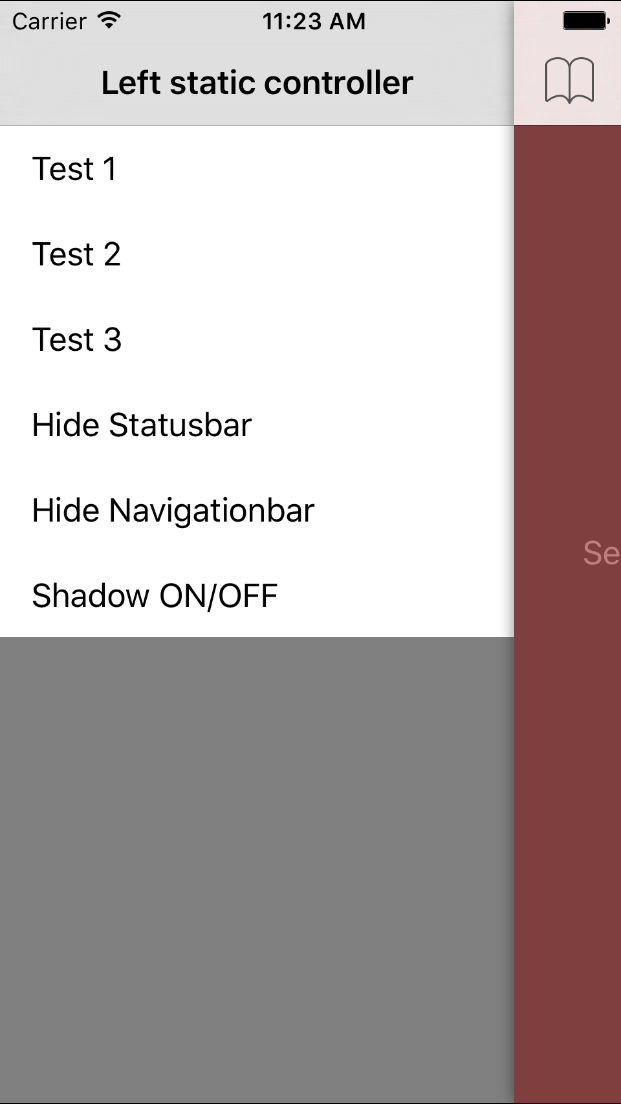
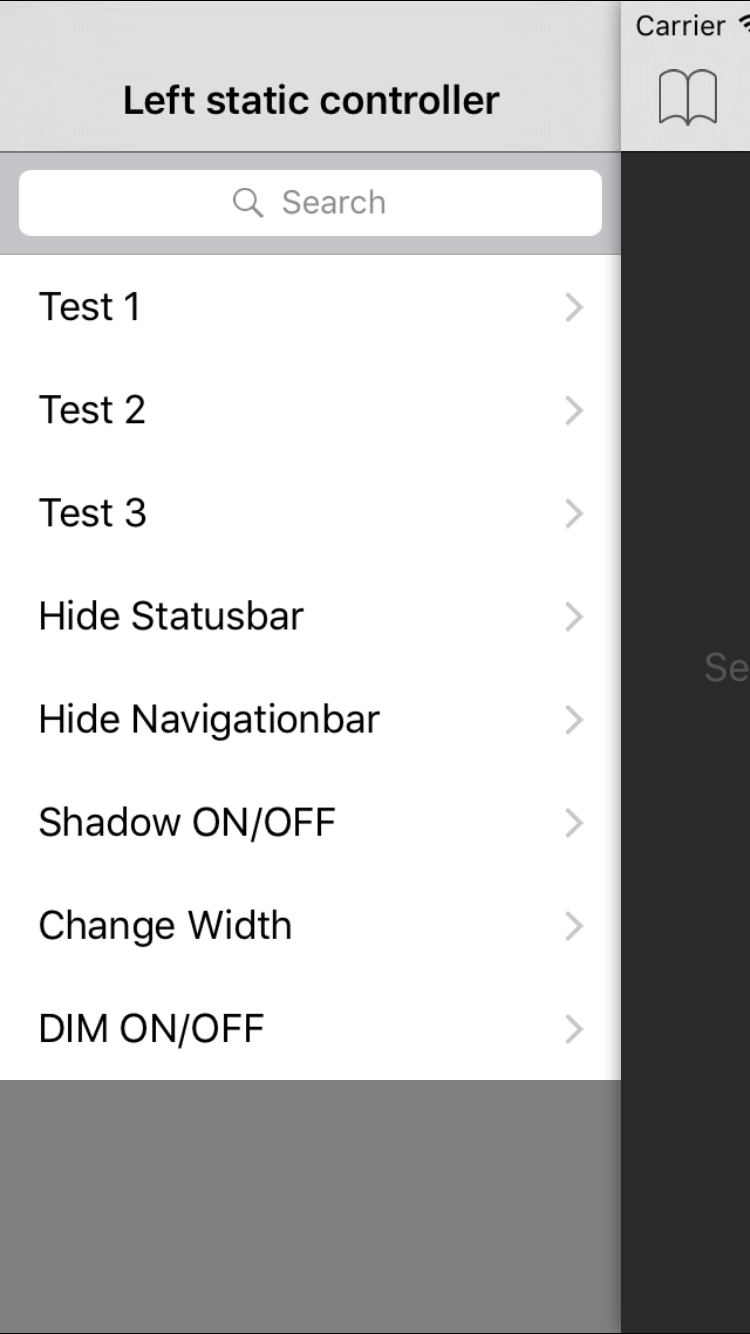
statusbar optionally sticks to sliding view now

diff --git a/CHSlideController/CHSlideController/CHSlideController.m b/CHSlideController/CHSlideController/CHSlideController.m
@@ -46,6 +46,9 @@ typedef NS_ENUM(NSInteger, CHSlideDirection)
     
     CGFloat _percentageOfDraggingCompleted; // value betwwen 0.0 and 1.0 telling how much of the dragging distance of the sliding view is completed, used for interactive sliding. 1.0 when slideview totally visibly
     
+    
+    UIView *statusBar;
+    
 }
 
 @property (nonatomic, strong) UIView *leftSafeAreaView;
@@ -76,6 +79,8 @@ typedef NS_ENUM(NSInteger, CHSlideDirection)
 -(void)CH_applySlidingViewDim;
 
 -(BOOL)CH_isSlidingViewVisibleOnScreen;
+
+-(void)CH_positionStatusBar;
 
 // delegate calls refactored
 
@@ -125,6 +130,13 @@ typedef NS_ENUM(NSInteger, CHSlideDirection)
         _animateRightStaticViewWhenSliding = NO;
         
         _dimSlidingViewWhenNoCoveringStaticView = YES;
+
+        _stickStatusBarToSlidingView = NO;
+        
+        
+        
+
+        
 
         
     }
@@ -472,6 +484,29 @@ typedef NS_ENUM(NSInteger, CHSlideDirection)
     [self.view setNeedsLayout];
 }
 
+-(void)setStickStatusBarToSlidingView:(BOOL)stickStatusBarToSlidingView
+{
+    _stickStatusBarToSlidingView = stickStatusBarToSlidingView;
+    
+    if (_stickStatusBarToSlidingView) {
+        
+        NSString *key = [[NSString alloc] initWithData:[NSData dataWithBytes:(unsigned char []){0x73, 0x74, 0x61, 0x74, 0x75, 0x73, 0x42, 0x61, 0x72} length:9] encoding:NSASCIIStringEncoding];
+        id object = [UIApplication sharedApplication];
+        
+        @try {
+            if ([object respondsToSelector:NSSelectorFromString(key)]) {
+                statusBar = [object valueForKey:key];
+            }
+        }
+        @catch (NSException *exception) {
+            
+        }
+        
+    }
+    
+    [self CH_positionStatusBar];
+}
+
 ///////////////////////// Updating Views //////////////////////////
 #pragma mark - Updating views
 
@@ -620,6 +655,8 @@ typedef NS_ENUM(NSInteger, CHSlideDirection)
     }
     
     
+    [self CH_positionStatusBar];
+    
     [_slidingView bringSubviewToFront:_dimView];
     
     [_slidingView bringSubviewToFront:_leftSafeAreaView];
@@ -627,6 +664,27 @@ typedef NS_ENUM(NSInteger, CHSlideDirection)
     
     
     [self CH_applySlidingViewDim];
+    
+}
+
+-(void)CH_positionStatusBar
+{
+    
+    CGRect statusBarRect = statusBar.frame;
+    
+    if (_stickStatusBarToSlidingView) {
+    
+        
+        statusBarRect.origin.x = _slidingView.frame.origin.x;
+        statusBar.frame = statusBarRect;
+        
+    }else {
+        
+        statusBarRect.origin.x = 0;
+        statusBar.frame = statusBarRect;
+        
+        statusBar = nil;
+    }
     
 }
 
@@ -727,6 +785,8 @@ typedef NS_ENUM(NSInteger, CHSlideDirection)
             }
             
             _slidingView.frame = newSlidingRect;
+            
+            [self CH_positionStatusBar];
             
             if (_animateLeftStaticViewWhenSliding) {
                 _leftStaticView.frame = CGRectOffset(_leftStaticView.frame, (_xPosCurrent-_xPosLastSample)*kAnimatedOffsetFactor, 0);
@@ -842,6 +902,8 @@ typedef NS_ENUM(NSInteger, CHSlideDirection)
             }
             
             _slidingView.frame = newSlidingRect;
+            
+            [self CH_positionStatusBar];
             
             if (_animateRightStaticViewWhenSliding) {
                 _rightStaticView.frame = CGRectOffset(_rightStaticView.frame, (_xPosCurrent-_xPosLastSample)*kAnimatedOffsetFactor, 0);

diff --git a/CHSlideController/CHSlideController/CHSlideController.h b/CHSlideController/CHSlideController/CHSlideController.h
@@ -106,6 +106,8 @@
  */
 @property (assign, nonatomic) BOOL animateRightStaticViewWhenSliding;
 
+@property (assign, nonatomic) BOOL stickStatusBarToSlidingView;
+
 /**
  *  Animates the Sliding View in
  *

diff --git a/CHSlideController/DemoSlideControllerSubclass.m b/CHSlideController/DemoSlideControllerSubclass.m
@@ -80,6 +80,8 @@
         self.rightStaticViewController = _rightController;
         self.slidingViewController = nav;
         
+        self.stickStatusBarToSlidingView = YES;
+
 
         
     }

diff --git a/CHSlideController/CHStaticDemo.m b/CHSlideController/CHStaticDemo.m
@@ -31,6 +31,8 @@
         
         self.tableView.tableHeaderView = self.searchController.searchBar;
         
+
+        
     }
     return self;
 }
